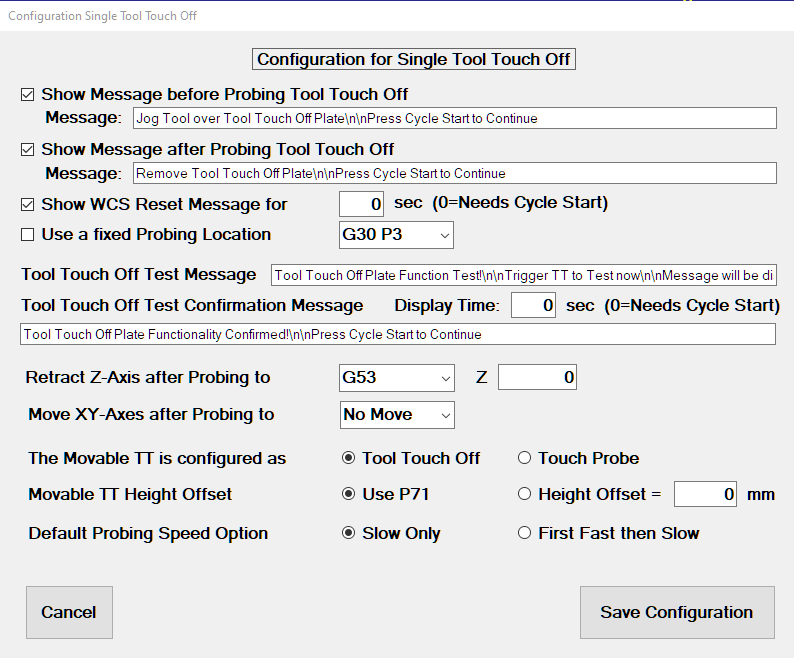
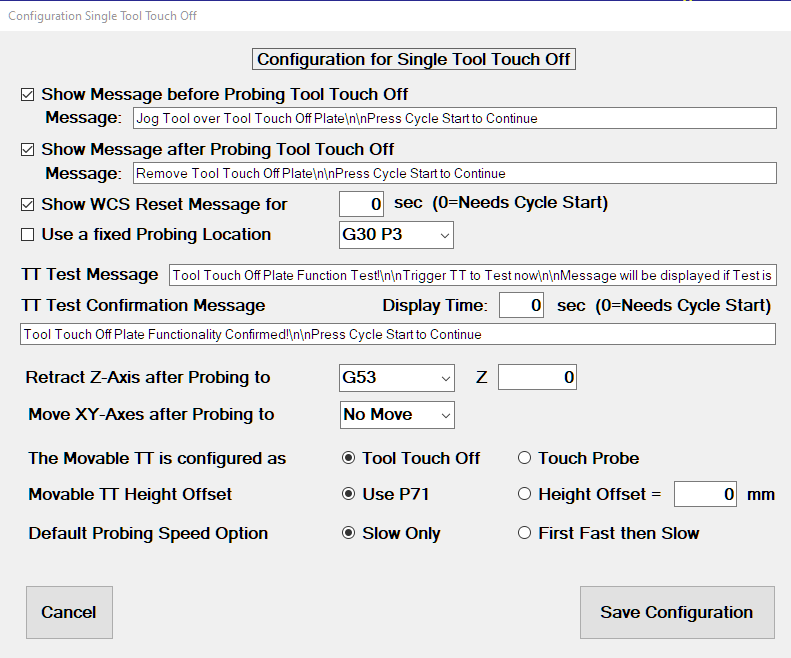
doc update

diff --git a/docs/ToolSetter.md b/docs/ToolSetter.md
@@ -40,6 +40,12 @@ The second probing cycle is using the Fixed TT and is needed to calculate the *R
 
 The Reference Height Offset is used to correctly set the Tool Height Offset for subsequent tool changes on the same workpiece by using the Fixed TT only.
 
+Three options can be selected on the bottom right to customize the probing cycle:
+
+* *Test TT (Movable TT only):* This will add a TT Trigger Check before the probing of the Movable TT is executed to assure that the TT is functioning properly.
+* *Fast Probing Speed First:* This check box will always default to the selected configuration setting and allows to temporarely enable or disable the fast probing move.
+* *Use WCS#:* This allows to select the WCS# that's being reset by this probing move. Default is always the currently active WCS#. If another WCS# than the currently active is selected, the machine will stay in the active WCS and only switch to the selected WCS for Reset and then switch back again.  
+
 
 ### Cycle 2: Set Z0 with Fixed TT - Ref Height Offset 
 
@@ -49,6 +55,9 @@ After a *Reference Height Offset* has been established with *Cycle 1*, all subse
 
 Use this option for all subsequent Tool Changes on the same workpiece after the *Reference Tool Height* has been set with *Cycle 1*.
 
+The currently active *Reference Height Offset* is displayed in the box and can be manually adjusted if necessary.
+
+Three options can be selected on the bottom right to customize the probing cycle (see above for details).
 
 ### Cycle 3: Continue without Tool Probing 
 
@@ -96,7 +105,7 @@ This is the text of the message that's being displayed before the test cycle of 
 Customize this message do your requirements. A \n within the message will force a line break in the CNC12 message box.
 
 ![](/images/pa079.PNG)
-This is the message that will be diplayed when the Movable TT succesfully recognized the TT trigger signal.
+This is the message that will be diplayed when the trigger signal of the Movable TT was succesfully recognized.
 The lenght of the display time in seconds can be selected for this message. A time value of 0 will require the message being confirmed with a *Cycle Start*.
 
 ![](/images/pa080.PNG)
@@ -170,11 +179,158 @@ If you select *First Fast then Slow* here, the check box on the Cycle Main scree
 
 ![](/images/pa067.PNG)
 
+This method uses only one Movable Tool Touch Off Plate (TT). The movable TT is being placed on top of the workpiece to find the exact position of the top surface.
+
+Two cycle options are available for this method. 
+
+
+### Cycle 1: Set Selected WCS# for active Tool to Z0 
+
+![](/images/pa088.PNG)
+
+Uses the Movable TT on top of the workpiece to probe the active tool and set Z0 (plus an optional offest) for the selected WCS#.
+
+Three options can be selected on the bottom right to customize the probing cycle:
+
+* *Test TT before Probing:* This will add a TT Trigger Check before the probing of the Movable TT is executed to assure that the TT is functioning properly.
+* *Fast Probing Speed First:* This check box will always default to the selected configuration setting and allows to temporarely enable or disable the fast probing move.
+* *Use WCS#:* This allows to select the WCS# that's being reset by this probing move. Default is always the currently active WCS#. If another WCS# than the currently active is selected,  
+
+
+### Cycle 2: Continue without Tool Probing 
+
+![](/images/pa072.PNG)
+
+If the Tool Setter screen is being launched by a M6 Tool Change command but no Tool Touch Off is needed, the *Cycle 2* button allows to continue the job without a Tool Touch Off.
+
+
+### Configuration for Single TT Setup
+
 ![](/images/pa068.PNG)
+
+The Configuration screen allows for a very flexible customization of the probing cycle. 
+These options can be changed at any time and the ProbeApp will dynamically generate the necessary probing commands for CNC12 based on current configuration settings. 
+
+Check out the details below for each of these options.
+
+![](/images/pa089.PNG)
+If this option is checked, CNC12 will display a Message before the probing move is executed. 
+The message can be customized in the *Message* box (adding \n does create a line break in the message box). 
+
+Be aware that not checking this box does directly engage the probing cycle when the *Cycle Start* button is pressed. 
+A *Remainder* to attach a Clip could be added here. The message needs to be confirmed with a *Cycle Start*.
+
+![](/images/pa090.PNG)
+This will display a message after the probing cycle with the TT has finished and the tool has been retracted. 
+A *Remainder* can be added here to remove the TT and Clip. 
+
+Be aware that not checking this box will directly move the Tool to the X and Y return position if one is configured.
+
+![](/images/pa091.PNG)
+This will display a WCS Reset message after the TT has been probed. 
+This allows to verify if Z0 has been set correctly for the selected WCS#. 
+A time in Seconds can be set for the lenght of the message display before the cycle continues. 
+A time value of 0 will require to confirm the message with a *Cycle Start*.
+
+![](/images/pa092.PNG)
+This option can be used if a tool touch off always takes place at the same location. 
+
+The available options are:
+* G28 (same as G30 P1)
+* G30 (same as G30 P2)
+* G30 P3
+* G30 P4
+* G53 with selectable X and Y Position
+
+![](/images/pa093.PNG)
+This is the text of the message that's being displayed before the test cycle of the TT is being engaged if the *Test TT* option was selected om the main screen.
+Customize this message do your requirements. A \n within the message will force a line break in the CNC12 message box.
+
+![](/images/pa094.PNG)
+This is the message that will be diplayed when the TT trigger signal was succesfully recognized.
+The lenght of the display time in seconds can be selected for this message. A time value of 0 will require the message being confirmed with a *Cycle Start*.
+
+![](/images/pa095.PNG)
+This setting defines the Z position the machine should retract to after probing the TT. 
+
+The available options are:
+* G28 (same as G30 P1)
+* G30 (same as G30 P2)
+* G30 P3
+* G30 P4
+* G53 with selectable Z Position
+* Start Position 
+
+The configuration screen does display all the Return Values as they are currently configured in CNC12 (Setup[F1] -> Part[F1] -> WCS Table[F9] -> Return[F1])
+
+The G53 option does allow to select any Z machine coordinate position but be aware that MCS Z0 is usually on the top going down in negative direction so you would need to enter a negative position value.
+
+The option *Start Position* will mark the current position at which the measurement of the TT was kicked off.
+
+If a Z return value has been selected that is below the probing point, an error message will be displayed and the probing cycle will be aborted.
+
+![](/images/pa096.PNG)
+Specifies the X and Y position the tool should move to at the end of the probing cycle.
+
+The available options are:
+* G28 (same as G30 P1)
+* G30 (same as G30 P2)
+* G30 P3
+* G30 P4
+* G53 with selectable X and Y Position
+* No Move
+
+The default selection is *No Move*.
+ 
+![](/images/pa097.PNG)
+This probing cycle supports a Tool Touch Off device being installed as a Touch Probe. 
+
+![](/images/pa085.PNG)
+If you have configured the height of the Tool Touch Off in the CNC12 Wizard it will be stored in CNC12 System Parameter P71.
+
+![](/images/pa087.PNG)
+
+There is some unexpected behavior in the way the Wizard configures P71 as the value you enter in the Wizard is positive but when you look up the parameter in CNC12 it will be stored as a negative number.
+If you change P71 in CNC12 to a positive number it will show up in the Wizard as a negative number. 
+To work around this issue, the ProbeApp will always use the absolute value of P71 and will do the correct thing with it.
+
+You can always use P71 even when your Movable TT is configured as Touch Probe. If the TT Height is not set in CNC12 use the alternative option and enter the Height Offset here.
+
+![](/images/pa086.PNG)
+The probing moves can be executen in a fast probing move first followed by a slow probing move or a slow probing move only.
+
+With this selection you define what your preferred, default probing behavior is.
+This setting impacts the default setting of the check box *Fast Probing First* on the Cycle Main screen.
+
+If you select *First Fast then Slow* here, the check box on the Cycle Main screen will always be selected by default and vice versa.
+
 
 ## *Method 3:* Manual Tool Touch Off
 
 ![](/images/pa069.PNG)
+
+This method does not use any TT and requires to touch off the tool manually on top of the workpiece.
+
+Two cycle options are available for this method. 
+
+
+### Cycle 1: Manually Set WCS for active Tool to Z0 
+
+![](/images/pa088.PNG)
+
+Uses the Movable TT on top of the workpiece to probe the active tool and set Z0 (plus an optional offest) for the selected WCS#.
+
+Two options can be selected on the bottom right to customize the probing cycle:
+
+* *Retract Z to:* Allows to set a specific return position the Z-Axis will move to after the WCS has been set.
+* *Use WCS#:* This allows to select the WCS# that's being reset by this probing move. Default is always the currently active WCS#. If another WCS# than the currently active is selected, the machine will stay in the active WCS and only switch to the selected WCS for Reset and then switch back again.  
+
+
+### Cycle 2: Continue without Tool Probing 
+
+![](/images/pa072.PNG)
+
+If the Tool Setter screen is being launched by a M6 Tool Change command but no Tool Touch Off is needed, the *Cycle 2* button allows to continue the job without a Tool Touch Off.
 
 
 
